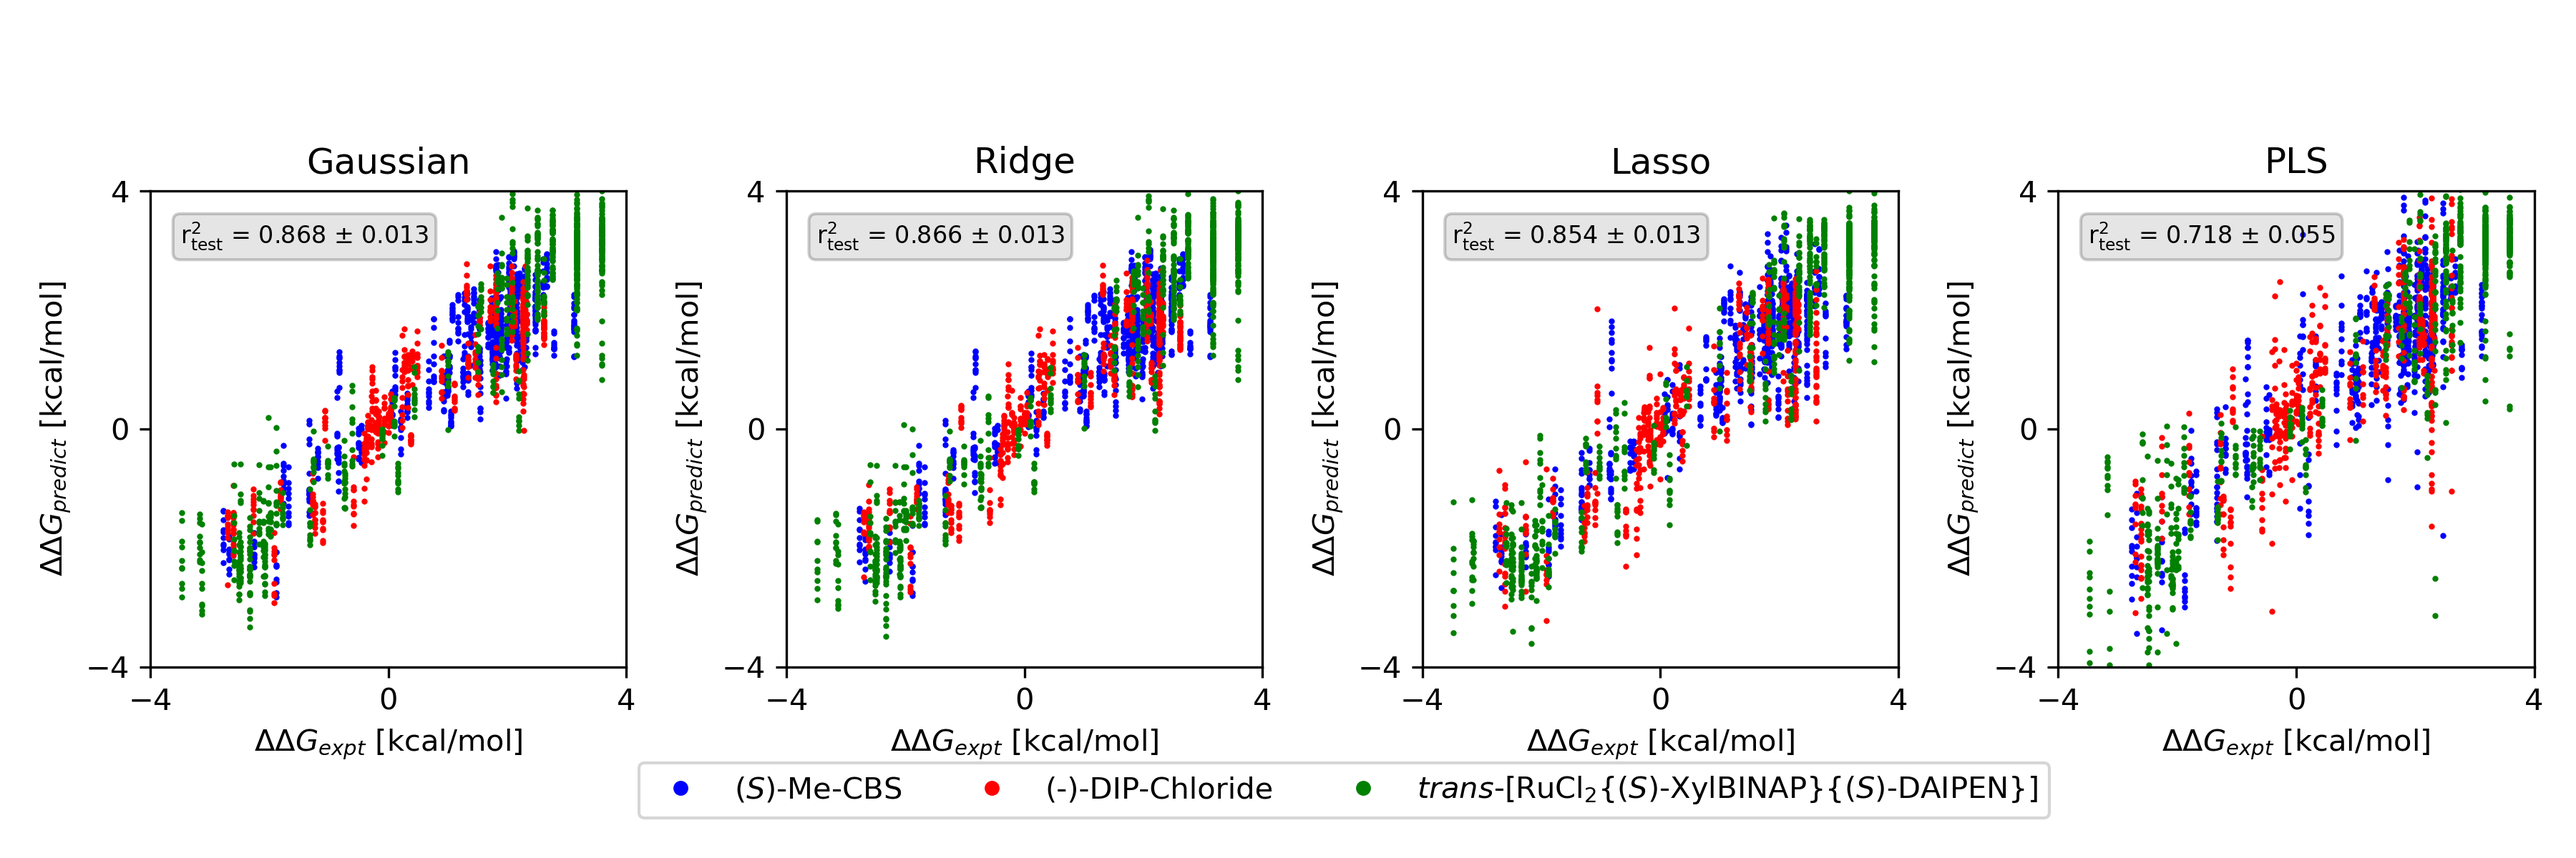
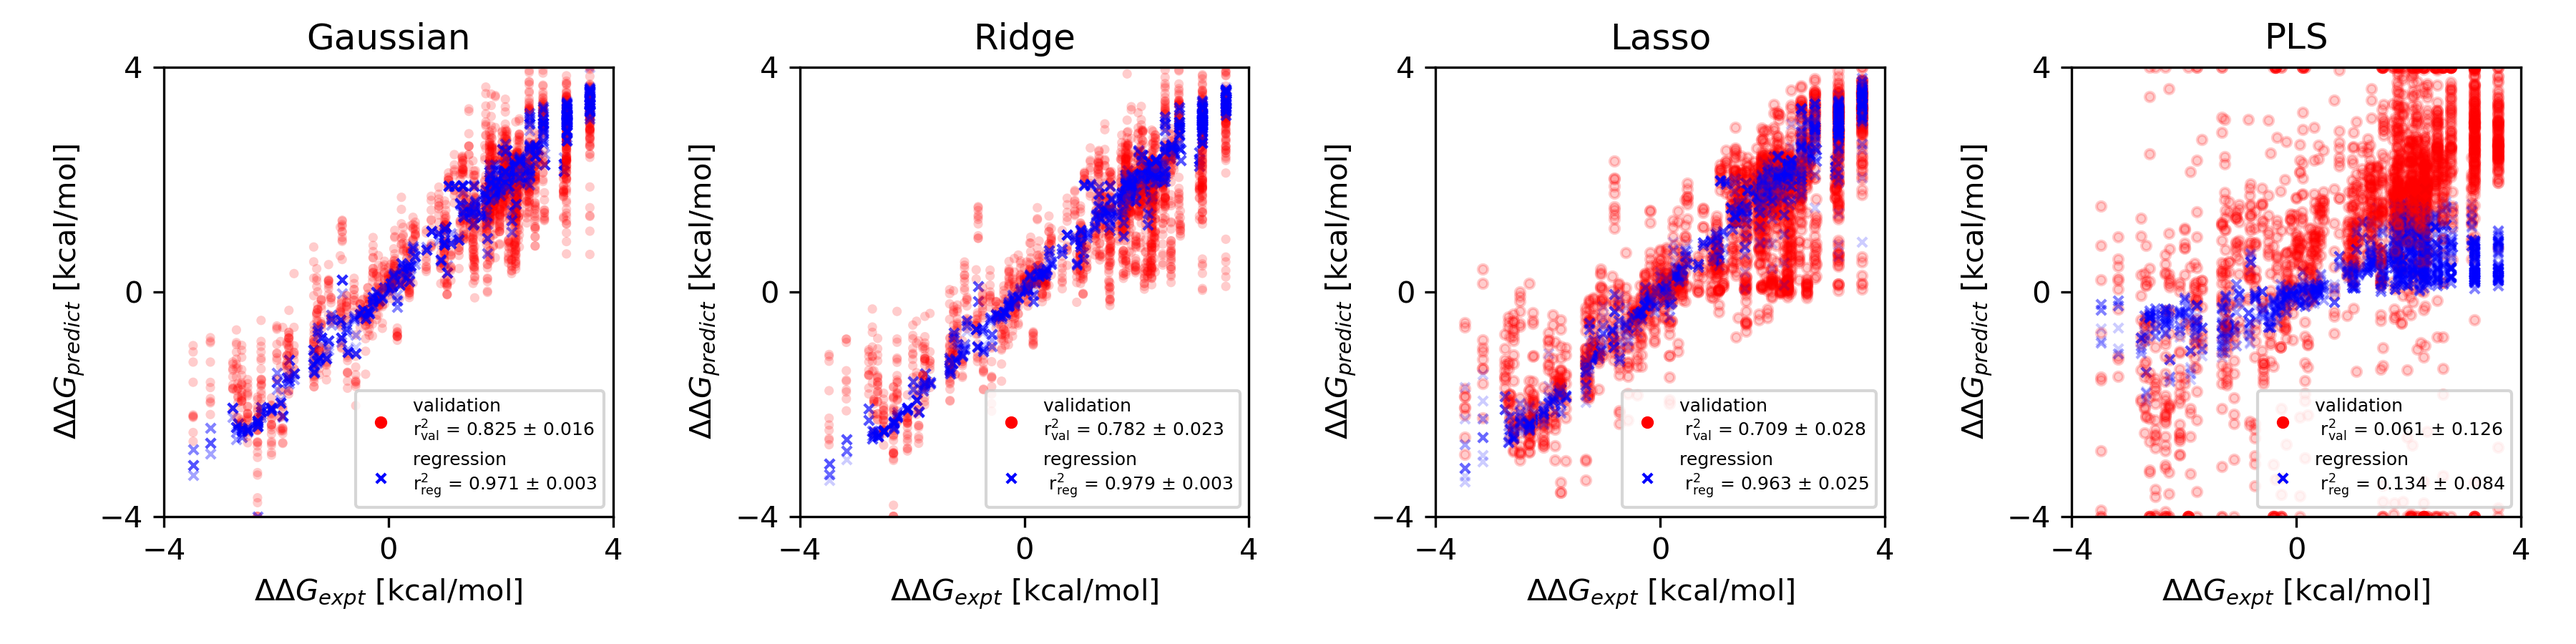
from win

diff --git a/CoMFA_model_lib/graph.py b/CoMFA_model_lib/graph.py
@@ -8,7 +8,6 @@ import numpy as np
 import pandas as pd
 import seaborn as sns
 from matplotlib import cm
-from scipy import stats
 from sklearn.metrics import mean_squared_error, r2_score
 
 # time.sleep(60*60*6)
@@ -79,13 +78,19 @@ for param_name in sorted(glob.glob("../parameter/cube_to_grid/cube_to_grid0.2505
             file_name = os.path.splitext(os.path.basename(file))[0]
             ax = fig.add_subplot(1, 3, i)
             plt.xscale("log")
-            # ax2 = ax.twiny()
+
+            ax2 = ax.twiny()
+            plt.xscale("log")
+
             ax.set_title(label)
             # ax.set_ylim(0.5, 3)
             # ax.set_yticks([0.5, 1.0, 1.5, 2.0, 2.5, 3.0])
             ax.set_ylim(0, 1.0)
-            ax.set_yticks([0.5,  0.6,0.7,0.8,0.9,1.0])
-            ax.set_xticks([0.001, 1, 100])
+            # ax2.set_xlim(100,10000)
+            ax.set_yticks([0.0,0.5,1.0])
+            ax.set_xticks([1, 10,100])
+            ax2.set_xticks([0.01,0.1,1])
+
             # Gaussian = []
             # Lasso = []
             # Ridge = []
@@ -99,22 +104,33 @@ for param_name in sorted(glob.glob("../parameter/cube_to_grid/cube_to_grid0.2505
                 # dfp["method"] = "Gaussian"
                 # dfp["Gaussian"]=True
                 # dfps.append(dfp.copy())
-                for columns in dfp.columns:
+                for _,columns in enumerate(sorted(dfp.columns)):
                     if re.match("Gaussian..*_validation_RMSE", columns):#"Gaussian" in columns and "_validation_RMSE" in columns:
-                        dfp[["regression_r2","validation_r2"]] = dfp[[columns[:-16]+"_regression_RMSE",columns]]
-                        dfp["method"] = "1"+columns[:-16]+""
+                        dfp[["regression_RMSE","validation_RMSE"]] = dfp[[columns[:-16]+"_regression_RMSE",columns]]
+                        dfp["sort"]=_
+                        dfp["method"] = columns[:-16]+""
                         dfp["Gaussian"]=True
+                        dfp["size"]=2
                         dfps.append(dfp.copy())
-                dfp[["regression_r2","validation_r2"]] = dfp[["Lasso_regression_RMSE","Lasso_validation_RMSE"]]
-                dfp["method"] = "3Lasso"
+                # dfp[["regression_r2","validation_r2"]] = dfp[["PLS_regression_RMSE","PLS_validation_RMSE"]]
+                # dfp["method"] = "4PLS"
+                # dfp["Gaussian"]=False
+                # dfps.append(dfp.copy())
+                
+
+                dfp[["regression_RMSE","validation_RMSE"]] = dfp[["Ridge_regression_RMSE","Ridge_validation_RMSE"]]
+                dfp["method"] = "Ridge"
+                dfp["sort"]=_+2
+                dfp["size"]=2
                 dfp["Gaussian"]=False
                 dfps.append(dfp.copy())
-
-                dfp[["regression_r2","validation_r2"]] = dfp[["Ridge_regression_RMSE","Ridge_validation_RMSE"]]
-                dfp["method"] = "2Ridge"
+                dfp[["regression_RMSE","validation_RMSE"]] = dfp[["Lasso_regression_RMSE","Lasso_validation_RMSE"]]
+                dfp["lambda"]/=100
+                dfp["method"] = "Lasso"
+                dfp["sort"]=_+3
+                dfp["size"]=2
                 dfp["Gaussian"]=False
                 dfps.append(dfp.copy())
-
                 # dfp["validation_r2"] = dfp["PLS_validation_RMSE"]
                 # dfp["method"] = "PLS"
                 # dfp["n"] = range(1, len(dfp["lambda"]) + 1)
@@ -137,10 +153,14 @@ for param_name in sorted(glob.glob("../parameter/cube_to_grid/cube_to_grid0.2505
             
             # sns.lineplot(x="lambda", y="validation_r2", data=dfs[(dfs["method"]==column)&dfs["Gaussian"]].sort_values(["method"]), hue="method",errorbar=None,
             #              legend=None, palette="jet_r", ax=ax)
-            sns.lineplot(x="lambda", y="validation_r2", data=dfs.sort_values(["method"],ascending=False), hue="method",errorbar=None,style="method",
+            sns.lineplot(x="lambda", y="validation_RMSE", data=dfs[dfs["method"]=="Lasso"].sort_values(["sort"],ascending=False), hue="method",errorbar=None,style="method",
+                         legend="full" if i==3 else None, color="black", ax=ax2,alpha=1)
+            sns.lineplot(x="lambda", y="regression_RMSE", data=dfs[dfs["method"]=="Lasso"].sort_values(["sort"],ascending=False), hue="method",errorbar=None,style="method",
+                         legend= None, color="black", ax=ax2,alpha=1,size="size")
+            sns.lineplot(x="lambda", y="validation_RMSE", data=dfs[dfs["method"]!="Lasso"].sort_values(["sort"],ascending=False), hue="method",errorbar=None,style="method",
                          legend="full" if i==3 else None, palette="jet_r", ax=ax,alpha=1)
-            sns.lineplot(x="lambda", y="regression_r2", data=dfs.sort_values(["method"],ascending=False), hue="method",errorbar=None,style="method",
-                         legend= None, palette="jet_r", ax=ax,alpha=1)
+            sns.lineplot(x="lambda", y="regression_RMSE", data=dfs[dfs["method"]!="Lasso"].sort_values(["sort"],ascending=False), hue="method",errorbar=None,style="method",
+                         legend= None, palette="jet_r", ax=ax,alpha=1,size="size")
             
             # ax.fill_between(dfs[dfs["method"]=="3Lasso"]["lambda"], dfs[dfs["method"]=="3Lasso"]["validation_r2"]+0.1, dfs[dfs["method"]=="3Lasso"]["validation_r2"]-0.1, alpha=0.1)
             # sns.lineplot(x="lambda", y="validation_r2", data=dfs[~dfs["Gaussian"]].sort_values(["method"]), hue="method", palette="winter",errorbar="ci",
@@ -155,11 +175,17 @@ for param_name in sorted(glob.glob("../parameter/cube_to_grid/cube_to_grid0.2505
             # # 結果の表示
             # print('t統計量 =', t_stat, 'p値 =', p_value)
             # ax.plot([], [], "-", label="PLS\n(≧{:.2f})".format(np.min(np.average(PLS, axis=0))), color="orange", alpha=1)
-            ax.set_xlabel("λ", fontsize=10)
+            ax.set_xlabel("λ (Gaussian, Ridge)", fontsize=10)
+            ax2.set_xlabel("λ (Lasso)", fontsize=10)
+
             # ax2.set_xlabel("n_components", fontsize=10)
             ax.set_ylabel("RMSE [kcal/mol]", fontsize=10)  # $r^2_{test}$
             # ax2.set_xticks([1, 5, 10, 15])  # print("Gaussian", np.std(Gaussian, axis=0))
-        ax.legend(bbox_to_anchor=(1, 1), loc='upper left', fontsize=6, ncols=1)
+        lines_labels=[ax.get_legend_handles_labels() for ax in [ax2,ax]]
+        lines, labels=[sum(lol,[]) for lol in zip(*lines_labels)]
+        ax.legend(lines,labels,bbox_to_anchor=(1, 1), loc='upper left', fontsize=6, ncols=1)
+        ax2.get_legend().remove()
+        # ax2.legend(bbox_to_anchor=(1, 1), loc='upper left', fontsize=6, ncols=1)
 
         fig.tight_layout()
         plt.savefig(param["fig_dir"] + "/λ_result.png", transparent=False, dpi=300)
@@ -206,7 +232,7 @@ for param_name in sorted(glob.glob("../parameter/cube_to_grid/cube_to_grid0.2505
         fig.tight_layout()
         plt.savefig(param["fig_dir"] + "/test_predict.png", transparent=False, dpi=300)
 
-    fig = plt.figure(figsize=(3 * 4, 3 * 1 + 1))
+    fig = plt.figure(figsize=(3 * 4, 3 * 1))
     ax = []
     for _, name in zip(range(4), ["Gaussian", "Ridge", "Lasso", "PLS"]):
         ax_ = fig.add_subplot(1, 4, _ + 1)
@@ -226,14 +252,18 @@ for param_name in sorted(glob.glob("../parameter/cube_to_grid/cube_to_grid0.2505
     #                                          "(-)-DIP-Chloride",
     #                                       "$trans$-[RuC$\mathrm{l_2}${($S$)-XylBINAP}{($S$)-DAIPEN}]",
     #                                      ])):
-    # Gaussians = []
-    # Ridges = []
-    # Lassos = []
-    # PLSs = []
+    Gaussians = []
+    Ridges = []
+    Lassos = []
+    PLSs = []
     Gaussian = [[] for _ in range(rang)]
     Ridge = [[] for _ in range(rang)]
     Lasso = [[] for _ in range(rang)]
     PLS = [[] for _ in range(rang)]
+    Gaussian_regressions = [[] for _ in range(rang)]
+    Ridge_regressions = [[] for _ in range(rang)]
+    Lasso_regressions = [[] for _ in range(rang)]
+    PLS_regressions = [[] for _ in range(rang)]
     exp = []
     for h, (file, data) in enumerate(zip(["../arranged_dataset/cbs.xlsx", "../arranged_dataset/DIP-chloride.xlsx",
                                           "../arranged_dataset/RuSS.xlsx"], ["($S$)-Me-CBS", "(-)-DIP-Chloride",
@@ -243,48 +273,95 @@ for param_name in sorted(glob.glob("../parameter/cube_to_grid/cube_to_grid0.2505
         Ridge_ = []
         Lasso_ = []
         PLS_ = []
+        Gaussian_regression = []
+        Ridge_regression = []
+        Lasso_regression = []
+        PLS_regression = []
         for _ in range(rang):
             save_path = param["out_dir_name"] + "/" + file_name + "/" + str(_)
             dfp = pd.read_excel(save_path + "/λ_result.xlsx").sort_values(["smiles"])
             rmse=np.inf
             for columns in dfp.columns:
-                if "Gaussian" in columns and "_validation" in columns:
+                if "Gaussian0.50" in columns and "_validation" in columns:
                     print(columns)
                     rmse_ = mean_squared_error(dfp["ΔΔG.expt."], dfp[columns],squared=False)
-                    print(rmse_)
+                    # print(rmse_)
                     if rmse_ < rmse:
                         rmse=rmse_
                         column=columns
 
-            Gaussian_.append(dfp[column].values.tolist())#"Gaussian1.00_validation"
-            Ridge_.append(dfp["Ridge_validation"].values.tolist())
-            Lasso_.append(dfp["Lasso_validation"].values.tolist())
-            PLS_.append(dfp["PLS_validation"].values.tolist())
+            Gaussian_.append(dfp[column].where(dfp[column].abs()<4,4*np.sign(dfp[column].values)).values.tolist())#"Gaussian1.00_validation"
+            Ridge_.append(dfp["Ridge_validation"].where(dfp["Ridge_validation"].abs()<4,4*np.sign(dfp["Ridge_validation"].values)).values.tolist())
+            Lasso_.append(dfp["Lasso_validation"].where(dfp["Lasso_validation"].abs()<4,4*np.sign(dfp["Lasso_validation"].values)).values.tolist())
+            PLS_.append(dfp["PLS_validation"].where(dfp["PLS_validation"].abs()<4,4*np.sign(dfp["PLS_validation"].values)).values.tolist())
+            
+            Gaussian_regressions[_].extend(dfp[column[:-11]+"regression"].where(dfp[column].abs()<4,4*np.sign(dfp[column].values)).values.tolist())#"Gaussian1.00_validation"
+            Ridge_regressions[_].extend(dfp["Ridgeregression"].where(dfp["Ridgeregression"].abs()<4,4*np.sign(dfp["Ridgeregression"].values)).values.tolist())
+            Lasso_regressions[_].extend(dfp["Lassoregression"].where(dfp["Lassoregression"].abs()<4,4*np.sign(dfp["Lassoregression"].values)).values.tolist())
+            PLS_regressions[_].extend(dfp["PLSregression"].where(dfp["PLSregression"].abs()<4,4*np.sign(dfp["PLSregression"].values)).values.tolist())
+            Gaussian_regression.append(dfp[column[:-11]+"regression"].where(dfp[column].abs()<4,4*np.sign(dfp[column].values)).values.tolist())#"Gaussian1.00_validation"
+            Ridge_regression.append(dfp["Ridgeregression"].where(dfp["Ridgeregression"].abs()<4,4*np.sign(dfp["Ridgeregression"].values)).values.tolist())
+            Lasso_regression.append(dfp["Lassoregression"].where(dfp["Lassoregression"].abs()<4,4*np.sign(dfp["Lassoregression"].values)).values.tolist())
+            PLS_regression.append(dfp["PLSregression"].where(dfp["PLSregression"].abs()<4,4*np.sign(dfp["PLSregression"].values)).values.tolist())
 
-            Gaussian[_].extend(dfp[column].values.tolist())
-            Ridge[_].extend(dfp["Ridge_validation"].values.tolist())
-            Lasso[_].extend(dfp["Lasso_validation"].values.tolist())
-            PLS[_].extend(dfp["PLS_validation"].values.tolist())
-
+            print(column)
+            Gaussian[_].extend(dfp[column].where(dfp[column].abs()<4,4*np.sign(dfp[column].values)).values.tolist())
+            Ridge[_].extend(dfp["Ridge_validation"].where(dfp["Ridge_validation"].abs()<4,4*np.sign(dfp["Ridge_validation"].values)).values.tolist())
+            Lasso[_].extend(dfp["Lasso_validation"].where(dfp["Lasso_validation"].abs()<4,4*np.sign(dfp["Lasso_validation"].values)).values.tolist())
+            PLS[_].extend(dfp["PLS_validation"].where(dfp["PLS_validation"].abs()<4,4*np.sign(dfp["PLS_validation"].values)).values.tolist())
+        Gaussians.append(Gaussian_)
+        Ridges.append(Ridge_)
+        Lassos.append(Lasso_)
+        PLSs.append(PLS_)
+        # Gaussian_regressions.append(Gaussian_regression)
+        # Ridge_regressions.append(Ridge_regression)
+        # Lasso_regressions.append(Lasso_regression)
+        # PLS_regressions.append(PLS_regression)
         exp.extend(dfp["ΔΔG.expt."].values.tolist())
-
-        alpha=1
-        markersize=1
-        ax[0].plot(np.tile(dfp["ΔΔG.expt."].values, np.array(Gaussian_).shape[0]), np.array(Gaussian_).ravel(), "o",
-                   color=["blue", "red", "green", "orange"][h], label=data, alpha=alpha, markersize=markersize)
-        ax[1].plot(np.tile(dfp["ΔΔG.expt."].values, np.array(Gaussian_).shape[0]), np.array(Ridge_).ravel(), "o",
-                   color=["blue", "red", "green", "orange"][h], label=data, alpha=alpha, markersize=markersize)
-        ax[2].plot(np.tile(dfp["ΔΔG.expt."].values, np.array(Gaussian_).shape[0]), np.array(Lasso_).ravel(), "o",
-                   color=["blue", "red", "green", "orange"][h], label=data, alpha=alpha, markersize=markersize)
-        ax[3].plot(np.tile(dfp["ΔΔG.expt."].values, np.array(Gaussian_).shape[0]), np.array(PLS_).ravel(), "o",
-                   color=["blue", "red", "green", "orange"][h], label=data, alpha=alpha, markersize=markersize)
-
-        ax[3].legend(loc='upper center', bbox_to_anchor=(0.5 - 2, -0.17), ncol=4, fontsize=10, markerscale=4)
+        
+        
+        alpha=0.2
+        markersize=10
+        ax[0].scatter(np.tile(dfp["ΔΔG.expt."].values, np.array(Gaussian_).shape[0]), np.array(Gaussian_).ravel(), s=markersize, c="red",
+                   edgecolor="none",  alpha=alpha)
+        ax[1].scatter(np.tile(dfp["ΔΔG.expt."].values, np.array(Gaussian_).shape[0]), np.array(Ridge_).ravel(), s=markersize,c="red",
+                   edgecolor="none",alpha=alpha )
+        ax[2].scatter(np.tile(dfp["ΔΔG.expt."].values, np.array(Gaussian_).shape[0]), np.array(Lasso_).ravel(),s=markersize,c="red",
+                   edgecolor="red",  alpha=alpha)
+        ax[3].scatter(np.tile(dfp["ΔΔG.expt."].values, np.array(Gaussian_).shape[0]), np.array(PLS_).ravel(), s=markersize,c="red",
+                   edgecolor="red", alpha=alpha)
+        
+        # alpha=0.2
+        # markersize=5
+        
+        ax[0].scatter(np.tile(dfp["ΔΔG.expt."].values, np.array(Gaussian_regression).shape[0]), np.array(Gaussian_regression).ravel(), marker="x",s=markersize,
+                   linewidth=1,color="blue", alpha=alpha)
+        ax[1].scatter(np.tile(dfp["ΔΔG.expt."].values, np.array(Gaussian_regression).shape[0]), np.array(Ridge_regression).ravel(), marker="x",s=markersize,
+                   linewidth=1,color="blue", alpha=alpha)
+        ax[2].scatter(np.tile(dfp["ΔΔG.expt."].values, np.array(Gaussian_regression).shape[0]), np.array(Lasso_regression).ravel(), marker="x",s=markersize,
+                   linewidth=1,color="blue",  alpha=alpha)
+        ax[3].scatter(np.tile(dfp["ΔΔG.expt."].values, np.array(Gaussian_regression).shape[0]), np.array(PLS_regression).ravel(), marker="x",s=markersize,
+                   linewidth=1,color="blue", alpha=alpha)
+        # ax[3].legend(loc='upper center', bbox_to_anchor=(0.5 - 2, -0.17), ncol=4, fontsize=10, markerscale=4)
+    
+        
+        
+    print(Gaussian)
+    print("!!!")
+    print(Gaussians)
 
     ga = [r2_score(exp, pred) for pred in Gaussian]
+
     ri = [r2_score(exp, pred) for pred in Ridge]
     la = [r2_score(exp, pred) for pred in Lasso]
     pls = [r2_score(exp, pred) for pred in PLS]
+
+    ga_regression = [r2_score(exp, pred) for pred in Gaussian_regressions]
+
+    ri_regression = [r2_score(exp, pred) for pred in Ridge_regressions]
+    la_regression = [r2_score(exp, pred) for pred in Lasso_regressions]
+    pls_regression = [r2_score(exp, pred) for pred in PLS_regressions]
+    # pls = [mean_squared_error(exp, pred) for pred in PLS]
     print(np.average(ga), np.std(ga))
     print(np.average(ri), np.std(ri))
     print(np.average(la), np.std(la))
@@ -293,16 +370,32 @@ for param_name in sorted(glob.glob("../parameter/cube_to_grid/cube_to_grid0.2505
     print("Ridge", np.average(np.std(Ridge, axis=0)))
     print("Lasso", np.average(np.std(Lasso, axis=0)))
     print("PLS", np.average(np.std(PLS, axis=0)))
+    ax[0].scatter([],[],alpha=1,c="red",label="validation \n"+"$\mathrm{r^2_{val}}$ = " + "{:.3f} ± {:.3f}".format(np.average(ga), np.std(ga)),s=markersize)
+    ax[0].scatter([],[],alpha=1,c="blue",linewidth=1,label="regression \n"+"$\mathrm{r^2_{reg}}$ = " + "{:.3f} ± {:.3f}".format(np.average(ga_regression), np.std(ga_regression)),s=markersize,marker="x")
+    ax[0].legend(loc='lower right', fontsize=6, ncols=1)
+    # ax[0].text(-3.5, 3.5,"N = {}×{}".format(len(dfp),rang))
+    ax[1].scatter([],[],alpha=1,c="red",label="validation \n"+"$\mathrm{r^2_{val}}$ = " + "{:.3f} ± {:.3f}".format(np.average(ri), np.std(ri)),s=markersize)
+    ax[1].scatter([],[],alpha=1,c="blue",linewidth=1,label="regression \n "+"$\mathrm{r^2_{reg}}$ = " + "{:.3f} ± {:.3f}".format(np.average(ri_regression), np.std(ri_regression)),s=markersize,marker="x")
+    ax[1].legend(loc='lower right', fontsize=6, ncols=1)
+    ax[2].scatter([],[],alpha=1,c="red",label="validation \n " + "$\mathrm{r^2_{val}}$ ="+" {:.3f} ± {:.3f}".format(np.average(la), np.std(la)),s=markersize)
+    ax[2].scatter([],[],alpha=1,c="blue",linewidth=1,label="regression \n " + "$\mathrm{r^2_{reg}}$ ="+" {:.3f} ± {:.3f}".format(np.average(la_regression), np.std(la_regression)),s=markersize,marker="x")
+    ax[2].legend(loc='lower right', fontsize=6, ncols=1)
+    ax[3].scatter([],[],alpha=1,c="red",label="validation \n " + "$\mathrm{r^2_{val}}$ ="+" {:.3f} ± {:.3f}".format(np.average(pls), np.std(pls)),s=markersize)
+    ax[3].scatter([],[],alpha=1,c="blue",linewidth=1,label="regression \n " + "$\mathrm{r^2_{reg}}$ ="+" {:.3f} ± {:.3f}".format(np.average(pls_regression), np.std(pls_regression)),s=markersize,marker="x")
+    ax[3].legend(loc='lower right', fontsize=6, ncols=1)
 
-    props = dict(boxstyle='round', facecolor='gray', alpha=0.2)
-    ax[0].text(-3.5, 3.5, "$\mathrm{r^2_{test}}$ = " + "{:.3f} ± {:.3f}".format(np.average(ga), np.std(ga)),
-               verticalalignment='top', bbox=props, fontsize=8)
-    ax[1].text(-3.5, 3.5, "$\mathrm{r^2_{test}}$ = " + "{:.3f} ± {:.3f}".format(np.average(ri), np.std(ri)),
-               verticalalignment='top', bbox=props, fontsize=8)
-    ax[2].text(-3.5, 3.5, "$\mathrm{r^2_{test}}$ = " + "{:.3f} ± {:.3f}".format(np.average(la), np.std(la)),
-               verticalalignment='top', bbox=props, fontsize=8)
-    ax[3].text(-3.5, 3.5, "$\mathrm{r^2_{test}}$ = " + "{:.3f} ± {:.3f}".format(np.average(pls), np.std(pls)),
-               verticalalignment='top', bbox=props, fontsize=8)
+
+
+    # props = dict(boxstyle='round', facecolor='gray', alpha=0.2)
+    # ax[0].text(-3.5, 3.5, "$\mathrm{r^2_{test}}$ = " + "{:.3f} ± {:.3f}".format(np.average(ga), np.std(ga)),
+    #            verticalalignment='top', bbox=props, fontsize=8)
+    # ax[1].text(-3.5, 3.5, "$\mathrm{r^2_{test}}$ = " + "{:.3f} ± {:.3f}".format(np.average(ri), np.std(ri)),
+    #            verticalalignment='top', bbox=props, fontsize=8)
+    # ax[2].text(-3.5, 3.5, "$\mathrm{r^2_{test}}$ = " + "{:.3f} ± {:.3f}".format(np.average(la), np.std(la)),
+    #            verticalalignment='top', bbox=props, fontsize=8)
+    # ax[3].text(-3.5, 3.5, "$\mathrm{r^2_{test}}$ = " + "{:.3f} ± {:.3f}".format(np.average(pls), np.std(pls)),
+    #            verticalalignment='top', bbox=props, fontsize=8)
     fig.tight_layout()
 
     plt.savefig(param["fig_dir"] + "/validation.png", transparent=False, dpi=300)
+    print("calculate success")

diff --git a/CoMFA_model_lib/run_CoMFA.py b/CoMFA_model_lib/run_CoMFA.py
@@ -135,6 +135,7 @@ warnings.simplefilter('ignore')
 #     print(save_name)
 
 
+#regressionだけにする。
 def regression_comparison(df, dfp, gaussian_penalize, save_name, n,n_splits,features):
     os.makedirs(save_name + "/molecular_field_csv",exist_ok=True)
     df_coord = pd.read_csv(gaussian_penalize + "/coordinates_yz.csv").sort_values(['x', 'y', "z"],
@@ -338,6 +339,8 @@ def regression_comparison(df, dfp, gaussian_penalize, save_name, n,n_splits,feat
     dfp.to_csv(save_name + "/λ_result.csv", index=False)
     print(save_name)
 
+#CV
+
 
 # def energy_to_Boltzmann_distribution(mol, RT=1.99e-3 * 273):
 #     energies = np.array([float(conf.GetProp("energy")) for conf in mol.GetConformers()])
@@ -451,13 +454,14 @@ if __name__ == '__main__':
     #time.sleep(60*60*24*2.5)
     inputs=[]
     inputs_=[]
-    for param_name in sorted(glob.glob("../parameter/cube_to_grid/cube_to_grid0.250510.txt"),reverse=True):
+    for param_name in sorted(glob.glob("../parameter/cube_to_grid/20240531/cube_to_grid0.250510.txt"),reverse=True):
         print(param_name)
         with open(param_name, "r") as f:
             param = json.loads(f.read())
         print(param)
         os.makedirs(param["out_dir_name"],exist_ok=True)
         start = time.perf_counter()  # 計測開始
+<<<<<<< HEAD
 <<<<<<< HEAD
 <<<<<<< HEAD
 <<<<<<< HEAD
@@ -478,6 +482,9 @@ if __name__ == '__main__':
 =======
         for file in glob.glob("../arranged_dataset/RuSS.xlsx"):
 >>>>>>> 8b8e38e (from win)
+=======
+        for file in glob.glob("../arranged_dataset/*.xlsx"):
+>>>>>>> bed7344 (from win)
             df = pd.read_excel(file).dropna(subset=['smiles']).reset_index(drop=True)  # [:50]
             file_name = os.path.splitext(os.path.basename(file))[0]
             features_dir_name = param["grid_coordinates"] + file_name

diff --git a/CoMFA_model_lib/cube_to_grid.py b/CoMFA_model_lib/cube_to_grid.py
@@ -156,7 +156,7 @@ if __name__ == '__main__':
     print("len=",len(dfs))
     dfs["mol"] = dfs["smiles"].apply(calculate_conformation.get_mol)
 
-    for param_name in sorted(glob.glob("../parameter/cube_to_grid/cube_to_grid0.250510.txt"),reverse=True):
+    for param_name in sorted(glob.glob("../parameter/cube_to_grid/20240531/cube_to_grid0.250510.txt"),reverse=True):
         df = copy.deepcopy(dfs)
         with open(param_name, "r") as f:
             param = json.loads(f.read())
